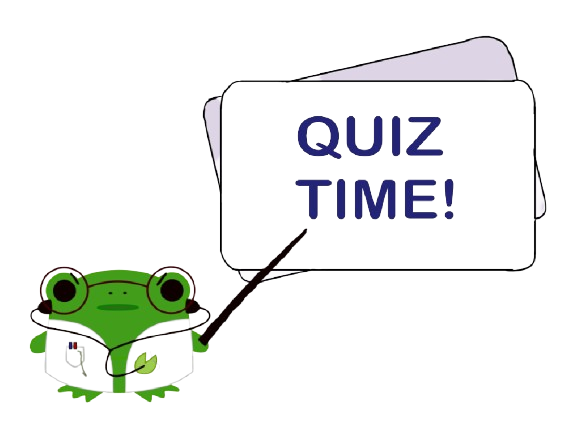
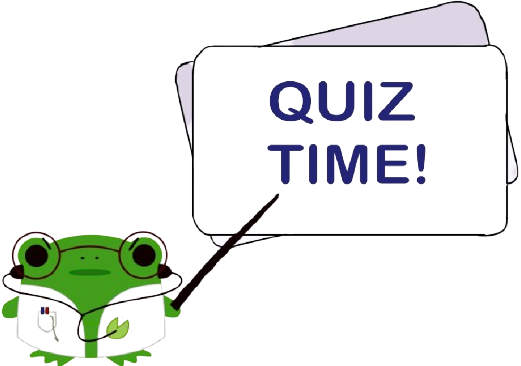
updates updates updates

Changed region(s): [[0.0, 0.0, 1.0, 1.0]]

diff --git a/frontend/src/components/Sidebar.js b/frontend/src/components/Sidebar.js
@@ -86,7 +86,7 @@ export default function Sidebar({ data, setCurrentSection, quizTime, currentSect
         </ul>
 
         <div className="w-full justify-center flex relative">
-          <img src={brainImage} id="brainImage" className="w-32 h-32 absolute z-10 top-1/2 left-1/2 transform -translate-x-1/2 -translate-y-1/2" />
+          <img src={brainImage} id="brainImage" className="w-32 h-24 absolute z-10 top-1/2 left-1/2 transform -translate-x-1/2 -translate-y-1/2" />
           <CircularProgress
             variant="determinate"
             value={progress}

diff --git a/frontend/src/components/QuizTime.js b/frontend/src/components/QuizTime.js
@@ -3,7 +3,7 @@ import React from 'react'
 export default function QuizTime() {
   return (
     <div className='flex flex-col max-h-[682px] h-[682px] justify-between w-full items-center content-center'>
-        <img className='h-[100%] aspect-square' src='/images/quizTimeFrog.png' alt='quiz time' />
+        <img className='h-[110%]' src='/images/quizTimeFrog.png' alt='quiz time' />
     </div>
   )
 }
